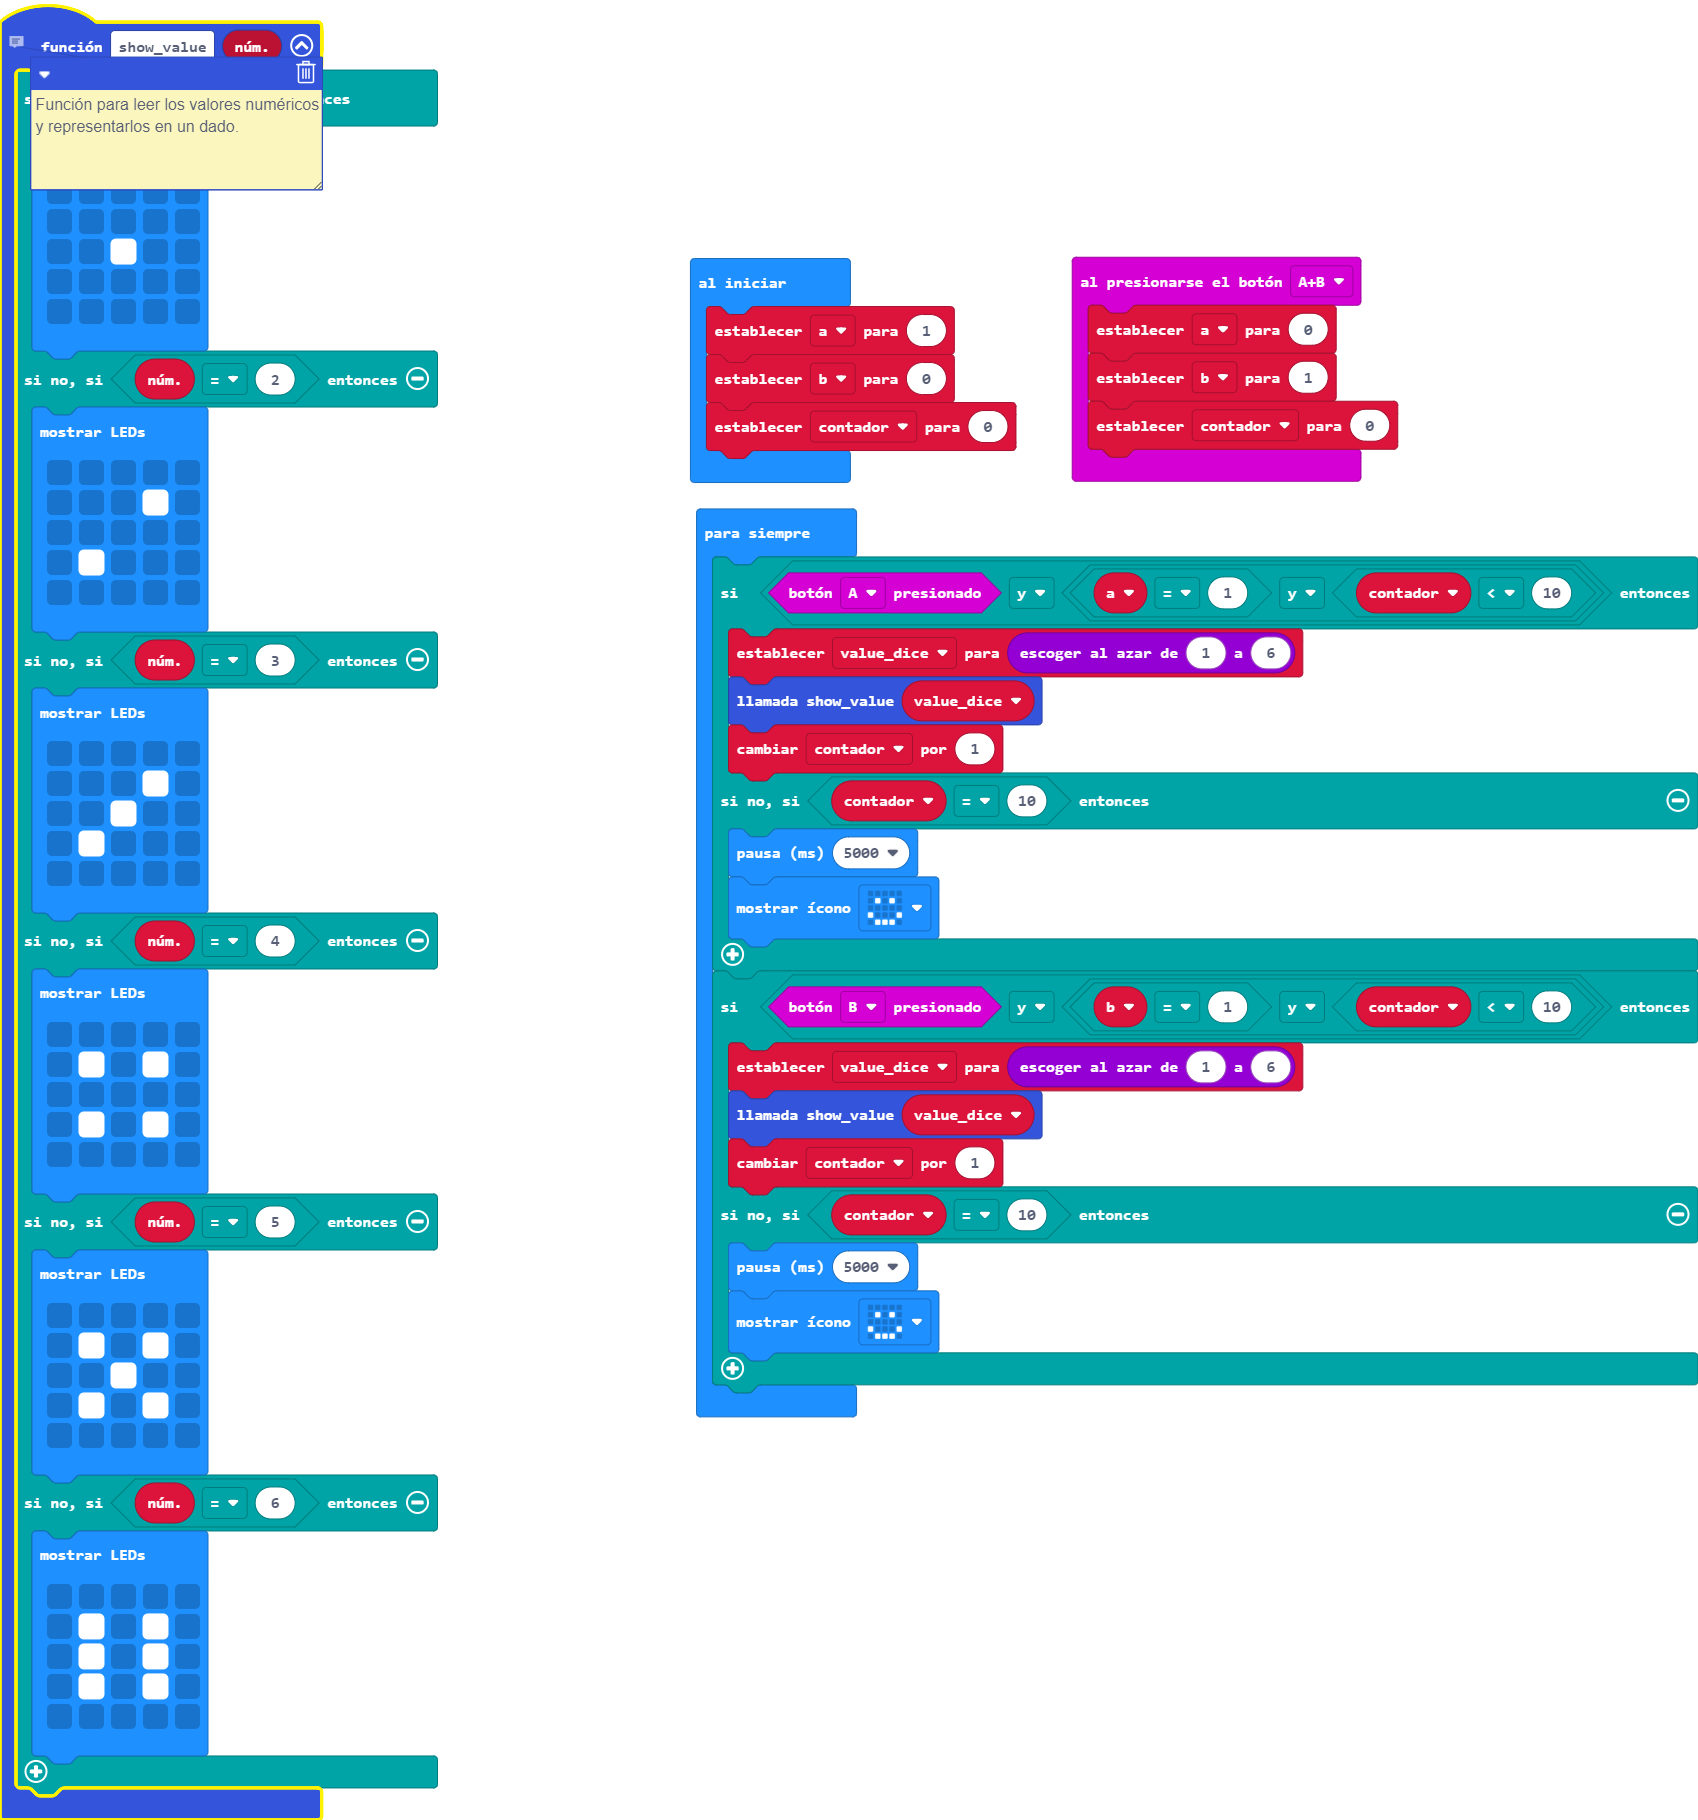
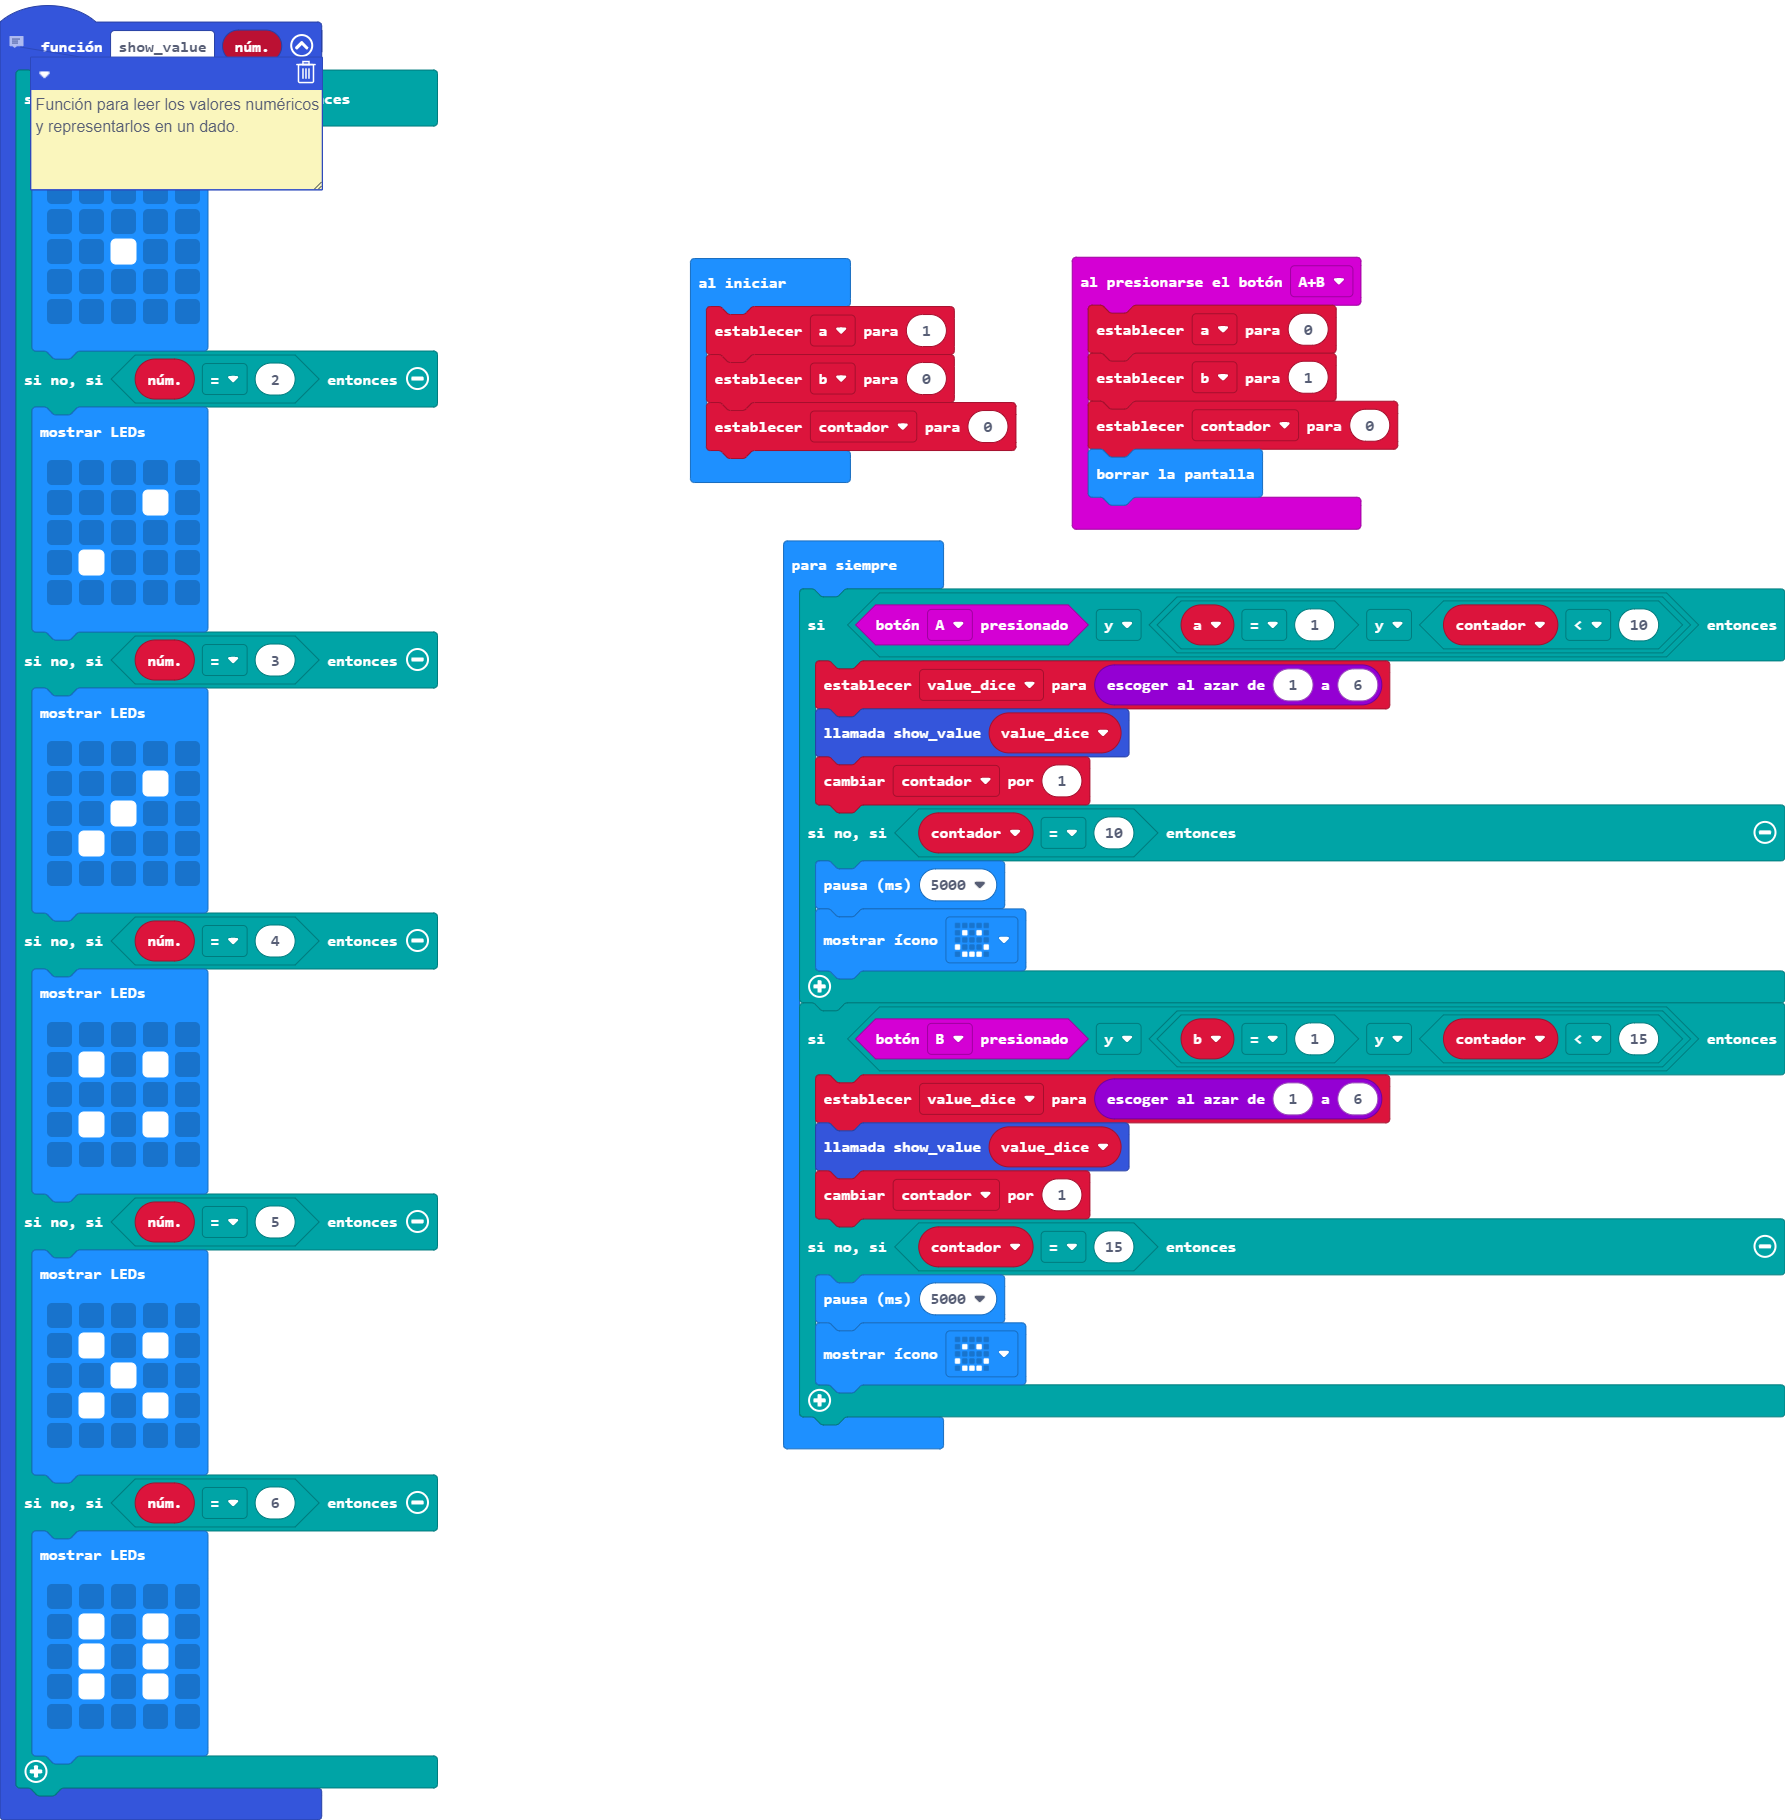
Actualizar main.blocks, main.ts

diff --git a/main.ts b/main.ts
@@ -2,6 +2,7 @@ input.onButtonPressed(Button.AB, function () {
     a = 0
     b = 1
     contador = 0
+    basic.clearScreen()
 })
 // Función para leer los valores numéricos y representarlos en un dado.
 function show_value (núm: number) {
@@ -71,11 +72,11 @@ basic.forever(function () {
         basic.pause(5000)
         basic.showIcon(IconNames.Happy)
     }
-    if (input.buttonIsPressed(Button.B) && (b == 1 && contador < 10)) {
+    if (input.buttonIsPressed(Button.B) && (b == 1 && contador < 15)) {
         value_dice = randint(1, 6)
         show_value(value_dice)
         contador += 1
-    } else if (contador == 10) {
+    } else if (contador == 15) {
         basic.pause(5000)
         basic.showIcon(IconNames.Happy)
     }
